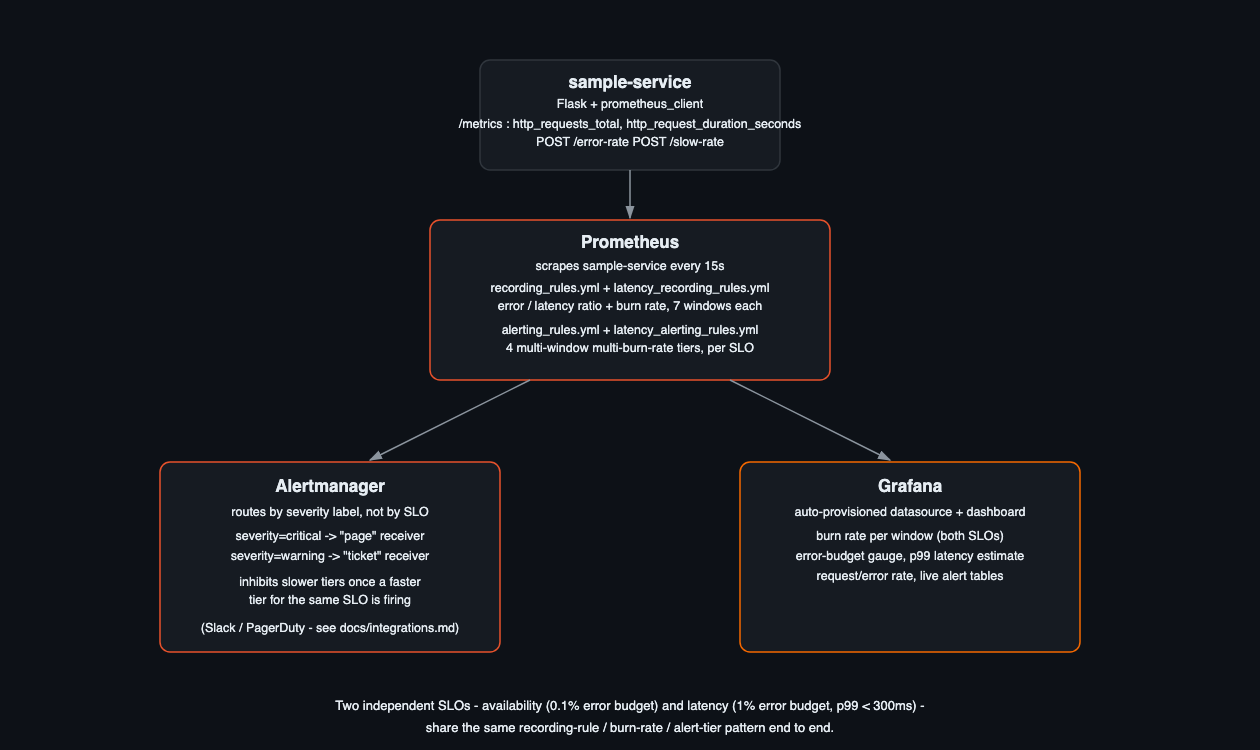
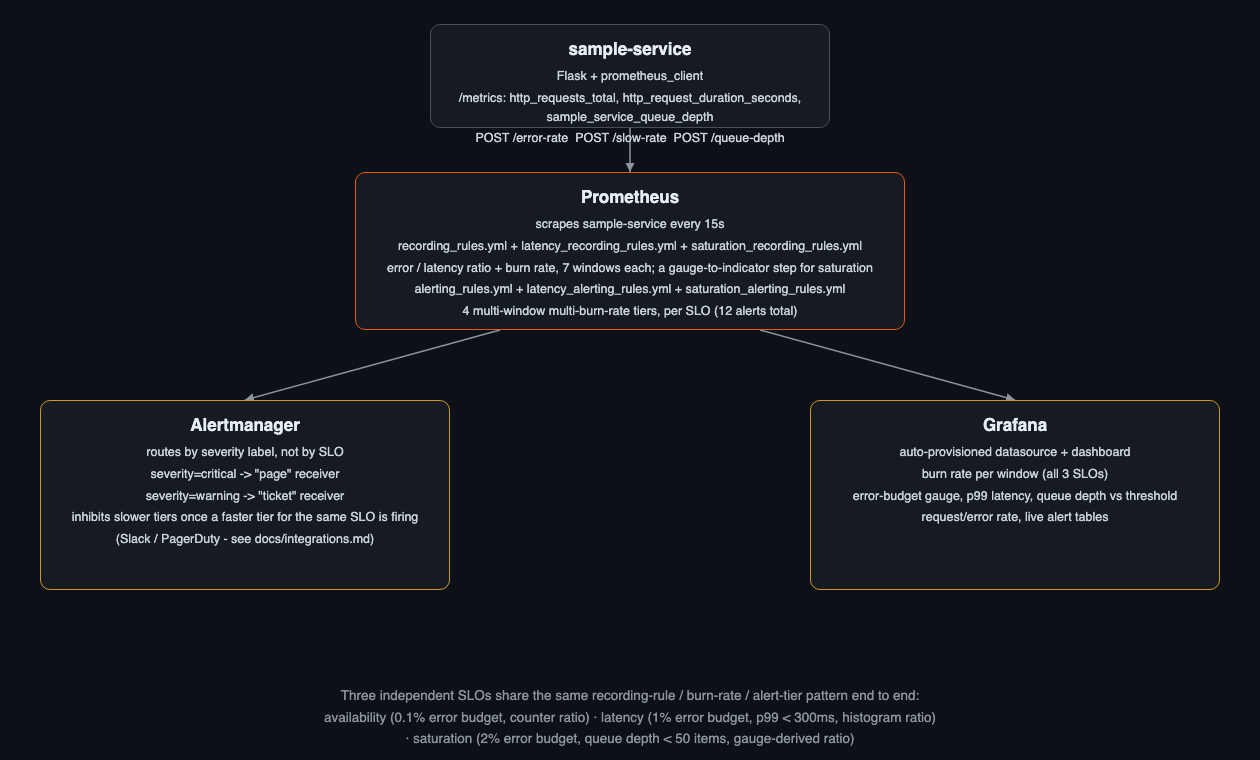
docs: document the saturation SLO and refresh the architecture diagram
README and runbook now cover all three SLOs end to end, including a
dedicated "Saturation SLO" section in the runbook explaining the
gauge-to-indicator adaptation and its resolution cost. Added 3 preview
screenshots from a real simulated saturation incident (Prometheus alerts,
the burn-rate graph, and the Grafana panels) and regenerated
architecture.png to include the third SLO's rule files and metric.

diff --git a/README.md b/README.md
@@ -4,10 +4,10 @@
 
 A reference implementation of Google SRE-style **multi-window,
 multi-burn-rate** alerting for error-budget SLOs: Prometheus recording
-rules, two independent SLOs (availability and latency) each with their
-own 4-tier Alertmanager routing setup, and a runbook that explains the
-math and the false-positive/false-negative tradeoffs behind the
-thresholds.
+rules, three independent SLOs (availability, latency, and saturation)
+each with their own 4-tier Alertmanager routing setup, and a runbook that
+explains the math and the false-positive/false-negative tradeoffs behind
+the thresholds.
 
 Most "SLO alerting" examples online are a single PromQL expression and a
 `for: 5m`. That's either too slow to catch real incidents or too noisy to
@@ -31,7 +31,7 @@ This builds and starts four containers:
 
 - **sample-service** (`localhost:8000`) - a Flask app that exposes
   `/metrics` and continuously generates synthetic HTTP traffic at a
-  configurable error rate and slow-request rate
+  configurable error rate, slow-request rate, and queue depth
 - **Prometheus** (`localhost:9090`) - scrapes the sample service and
   evaluates the recording/alerting rules in [`prometheus/`](prometheus)
 - **Alertmanager** (`localhost:9093`) - receives alerts and routes them by
@@ -58,6 +58,16 @@ instead of 10-80ms:
 curl -X POST localhost:8000/slow-rate -H 'Content-Type: application/json' -d '{"rate": 0.9}'
 # watch the latency burn-rate alerts move the same way the availability ones do
 curl -X POST localhost:8000/slow-rate -H 'Content-Type: application/json' -d '{"rate": 0.001}'
+```
+
+And again for the saturation SLO (queue depth under 50 items 98% of the
+time) via `POST /queue-depth`, which sets the target depth the synthetic
+work queue jitters around:
+
+```bash
+curl -X POST localhost:8000/queue-depth -H 'Content-Type: application/json' -d '{"target": 80}'
+# watch the saturation burn-rate alerts move the same way, built from a gauge instead of a counter
+curl -X POST localhost:8000/queue-depth -H 'Content-Type: application/json' -d '{"target": 5}'
 ```
 
 Or run the same thing as a scripted, self-recovering incident:
@@ -141,38 +151,58 @@ latency alert table showing all 4 tiers:
 
 ![Grafana latency panels](docs/screenshots/09-grafana-latency.png)
 
+For the independent **saturation SLO** (queue depth < 50 items), the
+sample service's `/queue-depth` target was pushed to 80 instead:
+
+**Prometheus alerts page**, filtered to the saturation tiers, with the
+fast-burn tier firing and the other three pending:
+
+![Prometheus saturation alerts](docs/screenshots/10-prometheus-saturation-alerts.png)
+
+**Prometheus graph** of `sample_service:saturation_burnrate5m` climbing
+from baseline noise to ~50x, well past the 14.4x fast-burn threshold:
+
+![Saturation burn rate graph](docs/screenshots/11-saturation-burnrate-graph.png)
+
+**Grafana dashboard**, scrolled down to the saturation panels: burn rate
+per window, the queue depth crossing the 50-item saturation threshold, and
+the live saturation alert table showing all 4 tiers:
+
+![Grafana saturation panels](docs/screenshots/12-grafana-saturation.png)
+
 ## How it works
 
 ![Architecture](docs/architecture.png)
 
 ```
 sample-service (Flask + prometheus_client)
-    - exposes /metrics (http_requests_total{code}, http_request_duration_seconds)
-    - POST /error-rate and POST /slow-rate let you simulate an incident
+    - exposes /metrics (http_requests_total{code}, http_request_duration_seconds,
+      sample_service_queue_depth)
+    - POST /error-rate, POST /slow-rate, POST /queue-depth let you simulate an incident
         |
         v
 Prometheus
     - scrapes sample-service
-    - recording_rules.yml + latency_recording_rules.yml:
-      error ratio / latency ratio + burn rate, each over 7 windows
+    - recording_rules.yml + latency_recording_rules.yml + saturation_recording_rules.yml:
+      error ratio / latency ratio / saturation ratio + burn rate, each over 7 windows
       (5m, 30m, 1h, 2h, 6h, 1d, 3d)
-    - alerting_rules.yml + latency_alerting_rules.yml:
-      4 multi-window multi-burn-rate tiers per SLO (8 alerts total)
+    - alerting_rules.yml + latency_alerting_rules.yml + saturation_alerting_rules.yml:
+      4 multi-window multi-burn-rate tiers per SLO (12 alerts total)
         |              \
         v               v
 Alertmanager          Grafana
     - routes severity=critical       - provisioned dashboard: burn rate
-      -> "page" receiver               per window (both SLOs), error-budget
-    - routes severity=warning           gauge, p99 latency, request/error
-      -> "ticket" receiver               rate, live alert tables
-    - inhibits slower tiers once a
+      -> "page" receiver               per window (all 3 SLOs), error-budget
+    - routes severity=warning           gauge, p99 latency, queue depth vs
+      -> "ticket" receiver               threshold, request/error rate,
+    - inhibits slower tiers once a      live alert tables
       faster tier is already firing
       (per SLO)
 ```
 
-Two independent SLOs are modeled, each using the exact same burn-rate
-method and the exact same four thresholds - only the budget constant
-differs:
+Three independent SLOs are modeled, each using the exact same burn-rate
+method and the exact same four thresholds - only the budget constant (and,
+for saturation, the underlying metric shape) differs:
 
 **Availability** - 99.9% of requests succeed over a rolling 30-day window
 (0.1% error budget):
@@ -194,33 +224,52 @@ differs:
 | `SampleServiceLatencyBudgetBurnSlow` | 1d | 2h | 3x | 1h | warning (ticket) |
 | `SampleServiceLatencyBudgetBurnVerySlow` | 3d | 6h | 1x | 3h | warning (ticket) |
 
+**Saturation** - queue depth stays under 50 items at least 98% of the time
+over a rolling 30-day window (2% error budget):
+
+| Alert | Long window | Short window | Burn rate threshold | `for` | Severity |
+|---|---|---|---|---|---|
+| `SampleServiceSaturationBudgetBurnFast` | 1h | 5m | 14.4x | 2m | critical (page) |
+| `SampleServiceSaturationBudgetBurnMediumFast` | 6h | 30m | 6x | 15m | critical (page) |
+| `SampleServiceSaturationBudgetBurnSlow` | 1d | 2h | 3x | 1h | warning (ticket) |
+| `SampleServiceSaturationBudgetBurnVerySlow` | 3d | 6h | 1x | 3h | warning (ticket) |
+
+Unlike availability and latency, saturation isn't a good/bad event ratio -
+it's measured on a gauge (`sample_service_queue_depth`), so a recording
+rule first turns it into a `1`/`0` over-threshold indicator before the
+same `avg_over_time()` + burn-rate math applies unchanged. See
+[`docs/runbook.md`](docs/runbook.md#saturation-slo) for how that
+adaptation works and what it costs.
+
 Full explanation of where these numbers come from, why both a short and a
-long window are required, how the latency SLO reuses the identical math,
-and the precision/detection-speed tradeoff behind each tier is in
-[`docs/runbook.md`](docs/runbook.md).
+long window are required, how the latency and saturation SLOs reuse the
+identical math, and the precision/detection-speed tradeoff behind each
+tier is in [`docs/runbook.md`](docs/runbook.md).
 
 ## Repository layout
 
 ```
 prometheus/
-  prometheus.yml               scrape config, rule files + Alertmanager wiring
-  recording_rules.yml          error ratio + burn rate per window (availability)
-  alerting_rules.yml           4-tier multi-window multi-burn-rate alerts (availability)
-  latency_recording_rules.yml  latency ratio + burn rate per window (latency SLO)
-  latency_alerting_rules.yml   4-tier multi-window multi-burn-rate alerts (latency SLO)
+  prometheus.yml                  scrape config, rule files + Alertmanager wiring
+  recording_rules.yml             error ratio + burn rate per window (availability)
+  alerting_rules.yml              4-tier multi-window multi-burn-rate alerts (availability)
+  latency_recording_rules.yml     latency ratio + burn rate per window (latency SLO)
+  latency_alerting_rules.yml      4-tier multi-window multi-burn-rate alerts (latency SLO)
+  saturation_recording_rules.yml  gauge-to-indicator + ratio + burn rate per window (saturation SLO)
+  saturation_alerting_rules.yml   4-tier multi-window multi-burn-rate alerts (saturation SLO)
 alertmanager/
   alertmanager.yml       severity-based routing + inhibition rules
   (Slack/PagerDuty receiver blocks - see docs/integrations.md to activate)
 grafana/
   provisioning/          auto-wired Prometheus datasource + dashboard provider
-  dashboards/            the SLO burn-rate dashboard JSON (both SLOs)
+  dashboards/            the SLO burn-rate dashboard JSON (all 3 SLOs)
 sample-service/
-  app.py                 Flask app: /metrics, /error-rate, /slow-rate, synthetic traffic
+  app.py                 Flask app: /metrics, /error-rate, /slow-rate, /queue-depth, synthetic traffic
 scripts/
   demo-incident.sh       scripted ramp/hold/recover incident for any of the
                           4 availability alert tiers
 docs/
-  runbook.md             the math and the tradeoffs, for both SLOs
+  runbook.md             the math and the tradeoffs, for all 3 SLOs
   integrations.md        wiring up real Slack/PagerDuty delivery
 docker-compose.yml       wires all four services together
 Makefile                 up / down / check / lint / burn / reset / demo
@@ -231,10 +280,11 @@ Makefile                 up / down / check / lint / burn / reset / demo
 Core foundation (recording rules, 4-tier alerting rules, Alertmanager
 routing, the demo stack, and the runbook), the Grafana dashboard and
 scripted incident demo, real Slack/PagerDuty integration instructions, and
-a second, independent latency SLO (p99 < 300ms) reusing the identical
-burn-rate method are complete and tested end-to-end against a real running
-stack. See [PROGRESS.md](PROGRESS.md) for the full phase-by-phase history
-and what's planned next.
+two additional independent SLOs (latency, p99 < 300ms; saturation, queue
+depth < 50 items) reusing the identical burn-rate method are complete and
+tested end-to-end against a real running stack. See
+[PROGRESS.md](PROGRESS.md) for the full phase-by-phase history and what's
+planned next.
 
 ## License
 

diff --git a/docs/runbook.md b/docs/runbook.md
@@ -161,16 +161,70 @@ To demo it: `POST /slow-rate` on the sample service (mirroring
 `sample_service:latency_burnrate*` up the same way raising `/error-rate`
 pushes `sample_service:burnrate*` up.
 
+## Saturation SLO
+
+`sample-service` also carries a third, independent SLO: a **queue depth
+under 50 items at least 98% of the time**, over a rolling 30-day window -
+a saturation objective, standing in for any resource-utilization signal
+(queue depth, worker-pool occupancy, connection-pool usage, disk headroom,
+...) a real service might track. Unlike the two SLOs above, this one is
+not a good/bad event ratio: `sample_service_queue_depth` is a **gauge**,
+not a counter, so there's no `rate(bad_events) / rate(total_events)` to
+take in the first place.
+
+[`prometheus/saturation_recording_rules.yml`](../prometheus/saturation_recording_rules.yml)
+bridges that gap in two steps:
+
+1. `sample_service:queue_saturated:bool` records
+   `sample_service_queue_depth > bool 50` on every evaluation. The `> bool`
+   operator turns the comparison into a `1`/`0` value instead of filtering
+   the series away, which - critically - makes this itself a regular time
+   series in Prometheus's storage, sampled once per `evaluation_interval`.
+2. `sample_service:saturation_ratio:rate<window>` then takes
+   `avg_over_time()` of that `1`/`0` series over each of the same seven
+   windows used by the other two SLOs. Averaging a `1`/`0` series over a
+   window *is* "fraction of time spent in that state" - the same ratio
+   shape as `error_ratio` and `latency_ratio`, just built from
+   `avg_over_time()` on a derived indicator instead of `rate()` on a raw
+   counter.
+
+From there, nothing changes: `sample_service:saturation_burnrate<window>`
+divides by the error budget (`1 - 0.98 = 0.02`) exactly like the other two
+SLOs, and
+[`prometheus/saturation_alerting_rules.yml`](../prometheus/saturation_alerting_rules.yml)
+reuses the identical four thresholds and `for` durations, with
+`slo: sample-service-saturation` routing through the same severity-based
+Alertmanager rules with no changes needed there.
+
+This is the point the previous two SLOs couldn't make on their own: the
+multi-window multi-burn-rate *method* generalizes to any metric that can be
+reduced to "fraction of time/requests in a bad state" - which covers far
+more than simple event ratios - but gauge-shaped signals need that one
+extra recording-rule step to get there. The adaptation does cost something:
+the indicator is only as fine-grained as `evaluation_interval` (15s here),
+so a saturation spike shorter than that can be averaged away entirely,
+whereas the counter-based SLOs capture every single request regardless of
+how briefly it was bad.
+
+To demo it: `POST /queue-depth` on the sample service (mirroring
+`POST /error-rate` and `POST /slow-rate`) sets the target queue depth the
+synthetic traffic loop jitters around, which pushes
+`sample_service:saturation_burnrate*` up the same way raising
+`/error-rate` or `/slow-rate` pushes the other two burn rates up.
+
 ## Tuning for your own service
 
 For each SLO, the constant that's specific to *that* SLO (not to the
 method) lives in one place: the `0.001` divisor in
 [`prometheus/recording_rules.yml`](../prometheus/recording_rules.yml) for
-availability, or the `0.01` divisor in
+availability, the `0.01` divisor in
 [`prometheus/latency_recording_rules.yml`](../prometheus/latency_recording_rules.yml)
-for latency - both are `1 - target`. Changing an SLO's target means
-changing that one number; the burn-rate thresholds (14.4, 6, 3, 1) stay the
-same regardless of what the target is, because they're expressed in
-multiples of whatever the budget is - that's the whole point of the
-burn-rate abstraction, and exactly why the latency SLO above could reuse
-the same four tiers unchanged.
+for latency, or the `0.02` divisor and the `50`-item threshold in
+[`prometheus/saturation_recording_rules.yml`](../prometheus/saturation_recording_rules.yml)
+for saturation - the budget divisors are all `1 - target`. Changing an
+SLO's target means changing that one number (plus the threshold constant
+for a gauge-based SLO like saturation); the burn-rate thresholds (14.4, 6,
+3, 1) stay the same regardless of what the target is, because they're
+expressed in multiples of whatever the budget is - that's the whole point
+of the burn-rate abstraction, and exactly why the latency and saturation
+SLOs above could both reuse the same four tiers unchanged.
